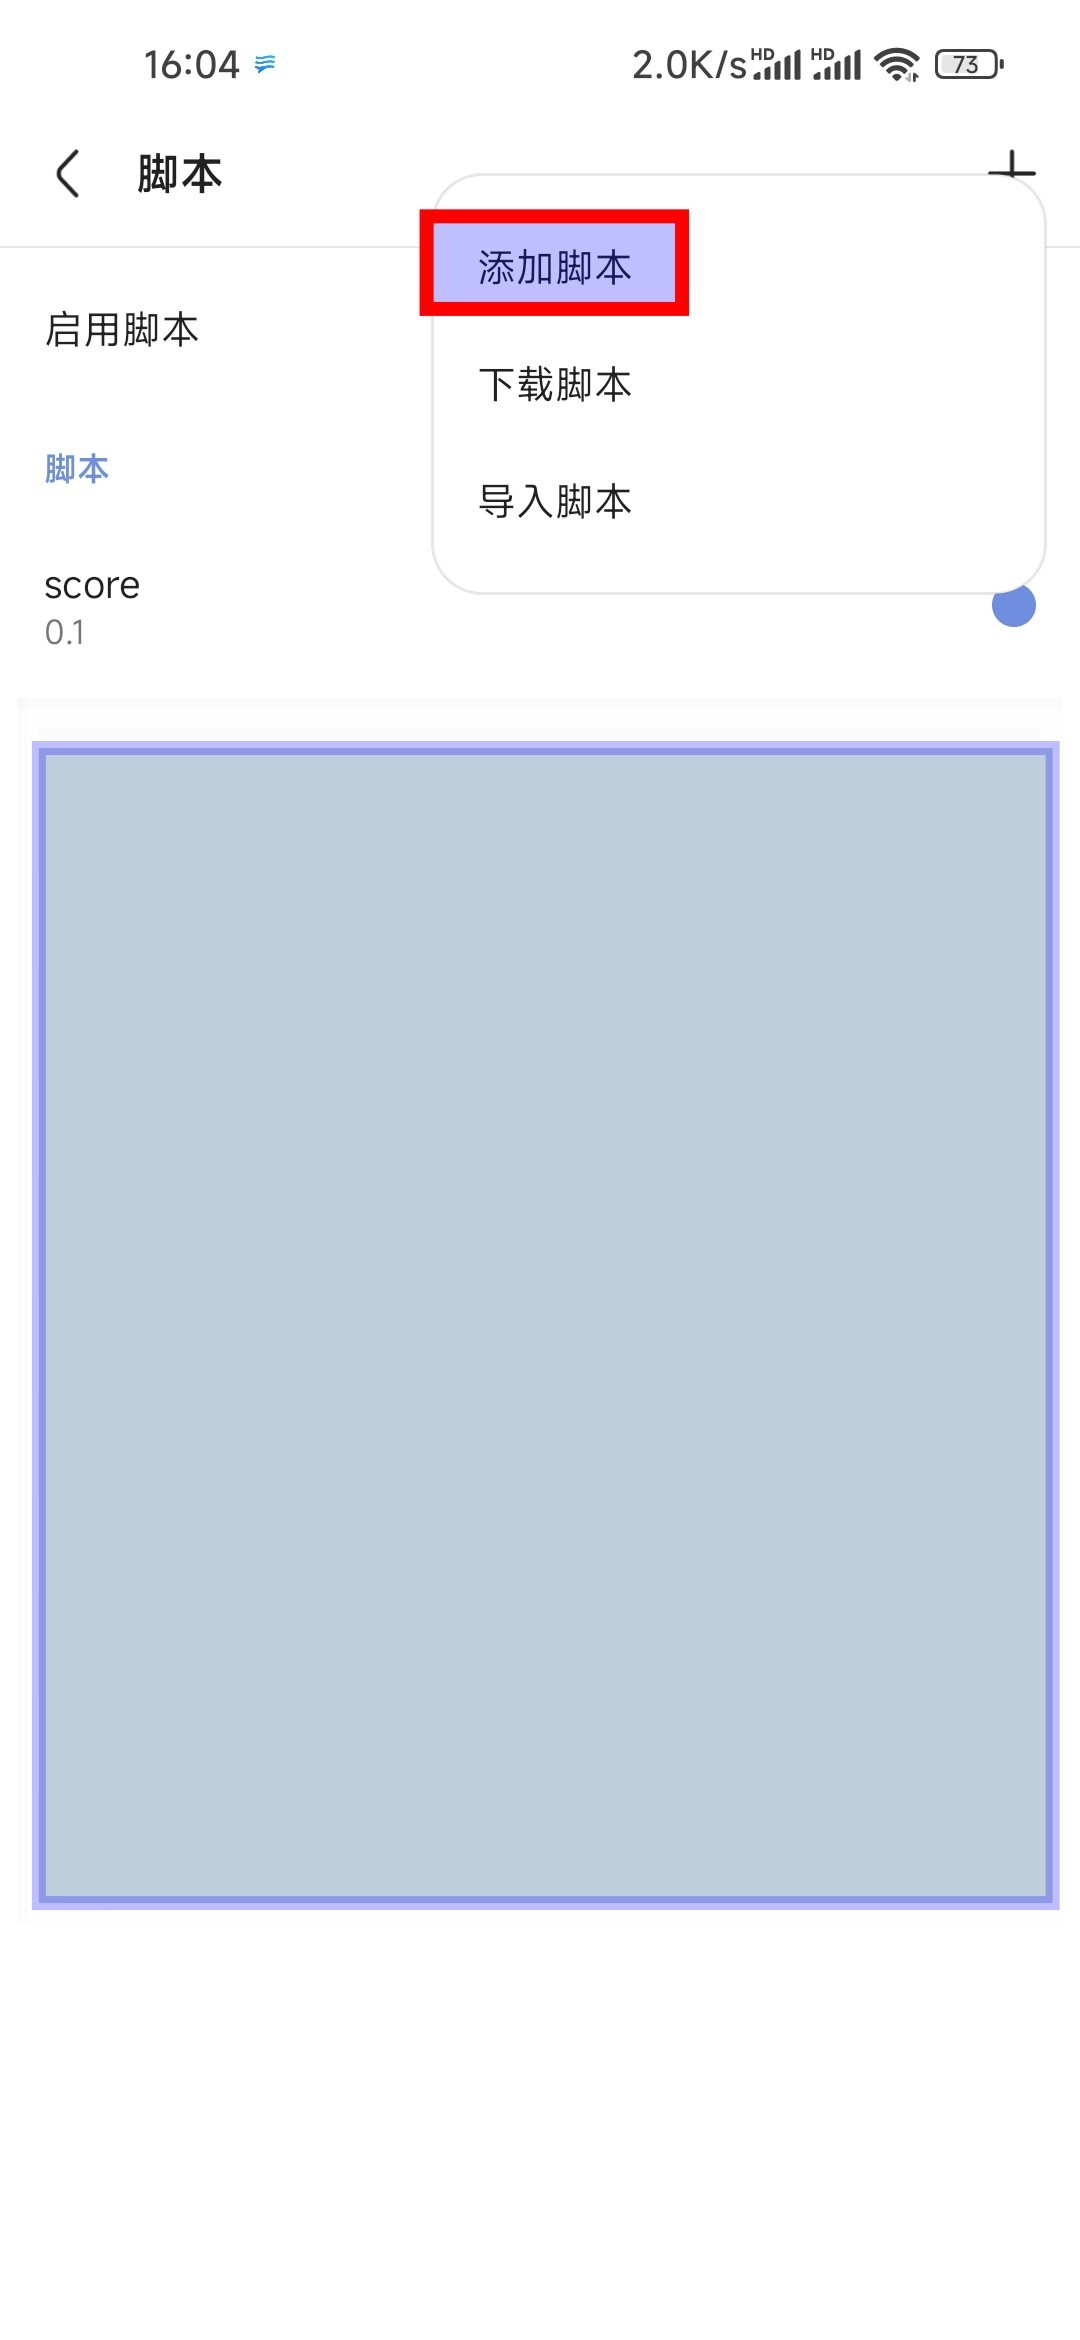
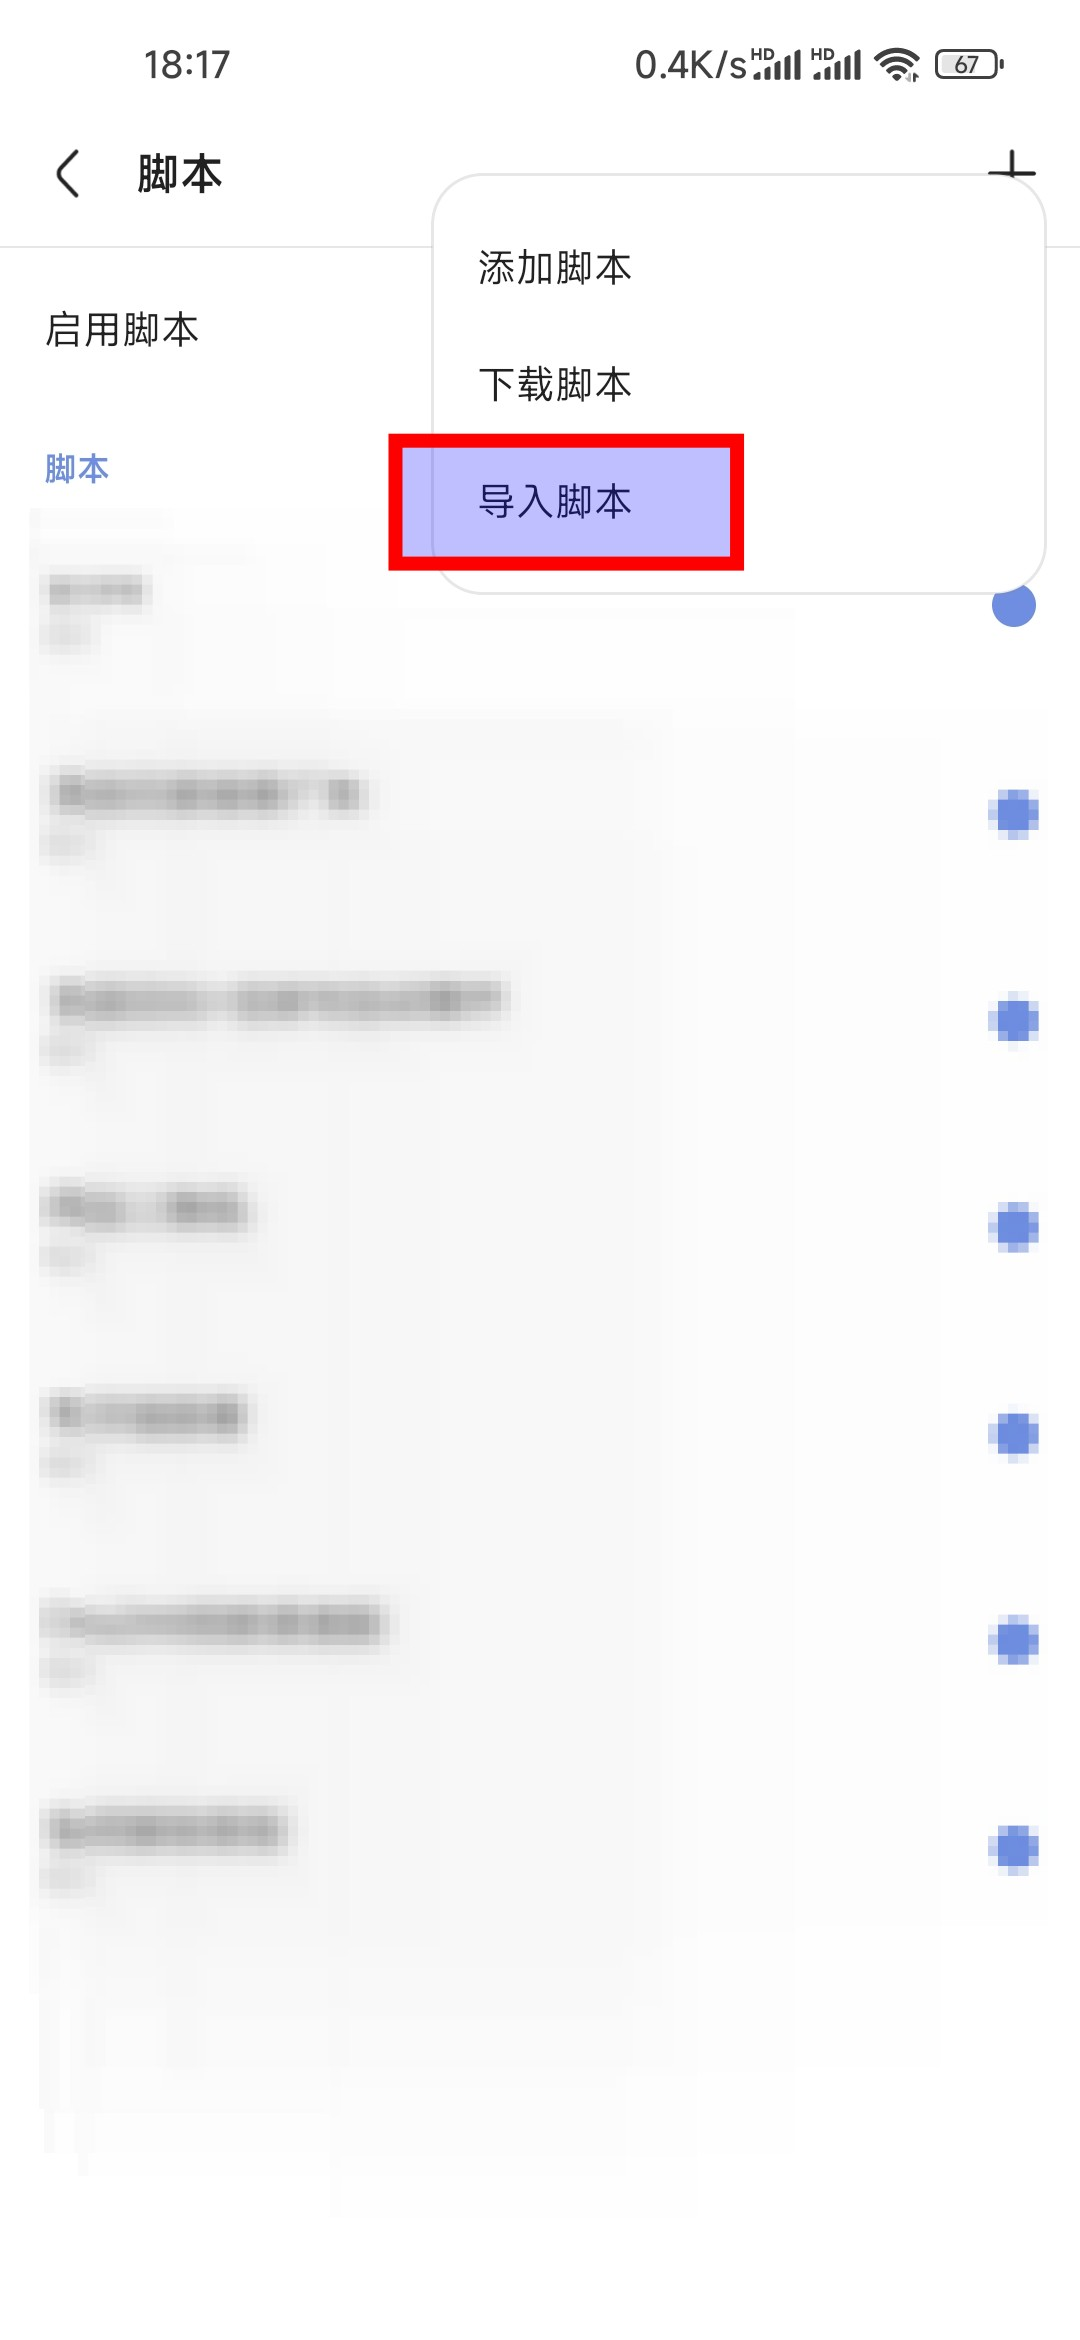
[Add] content_via.js

diff --git a/content_via.js b/content_via.js
@@ -1,3 +1,15 @@
+// ==UserScript==
+// @name         屏蔽赛事录像比分
+// @namespace    https://viayoo.com/
+// @version      0.1
+// @description  Replace match score
+// @author       megemini
+// @run-at       document-end
+// @match        https://www.miguvideo.com/*
+// @match        https://v.qq.com/*
+// @grant        none
+// ==/UserScript==
+
 // 监听页面中的文本内容，查找并屏蔽比分信息
 function hideScores() {
   // 使用更精确的XPath表达式定位包含比分的元素

diff --git a/README.md b/README.md
@@ -1,6 +1,8 @@
-# luxiang_score
+# HideScore
 
-屏蔽掉赛事（足球、篮球）录像页面（咪咕、腾讯）的比分 ～～～ Chrome、Via 可用 🤗🤗🤗
+屏蔽掉赛事（足球、篮球）录像页面（咪咕、腾讯）比分的脚本插件 ～～～ 
+
+Chrome、Via 可用 🤗🤗🤗 
 
 使用前：
 
@@ -26,15 +28,15 @@
 
 ![image](doc/via_0.jpg)
 
-2. 选择脚本
+2. 选择 `脚本`
 
 ![image](doc/via_1.jpg)
 
-3. 添加脚本
+3. 选择 `导入脚本` ，浏览手机文件，选择 `content_via.js`
 
 ![image](doc/via_2.jpg)
 
-4. 复制 `content.js` 中的所有代码，覆盖原来 `function` 的地方
+4. 确认安装
 
 ![image](doc/via_3.jpg)
 
@@ -45,3 +47,7 @@
 Via 使用的时候需要使用 `电脑模式`
 
 🤗🤗🤗
+
+## 目前已知问题
+
+- Via 中腾讯视频页面不起作用
